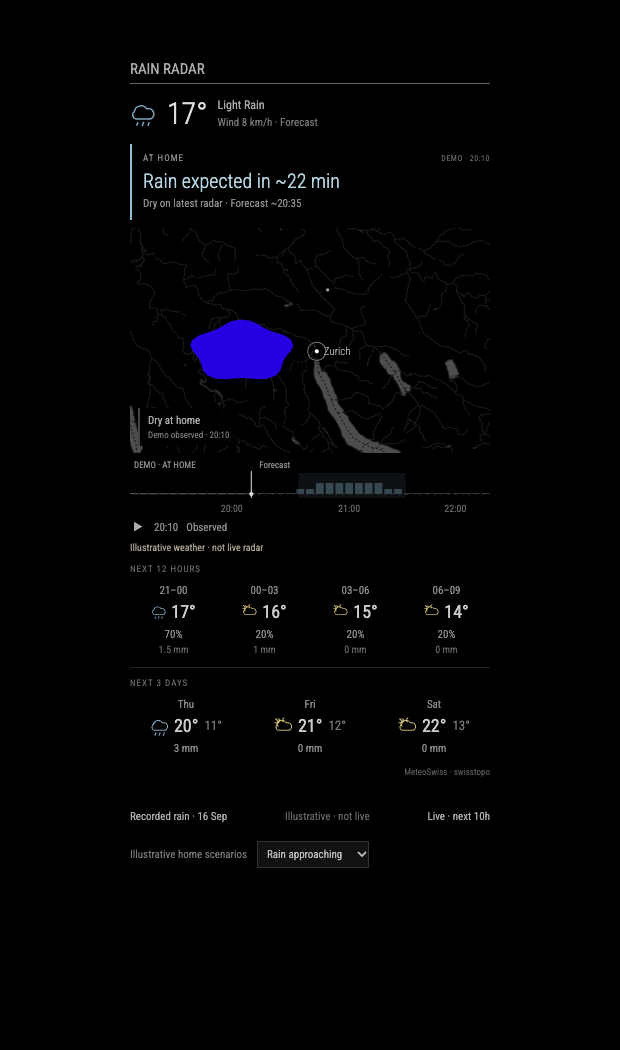
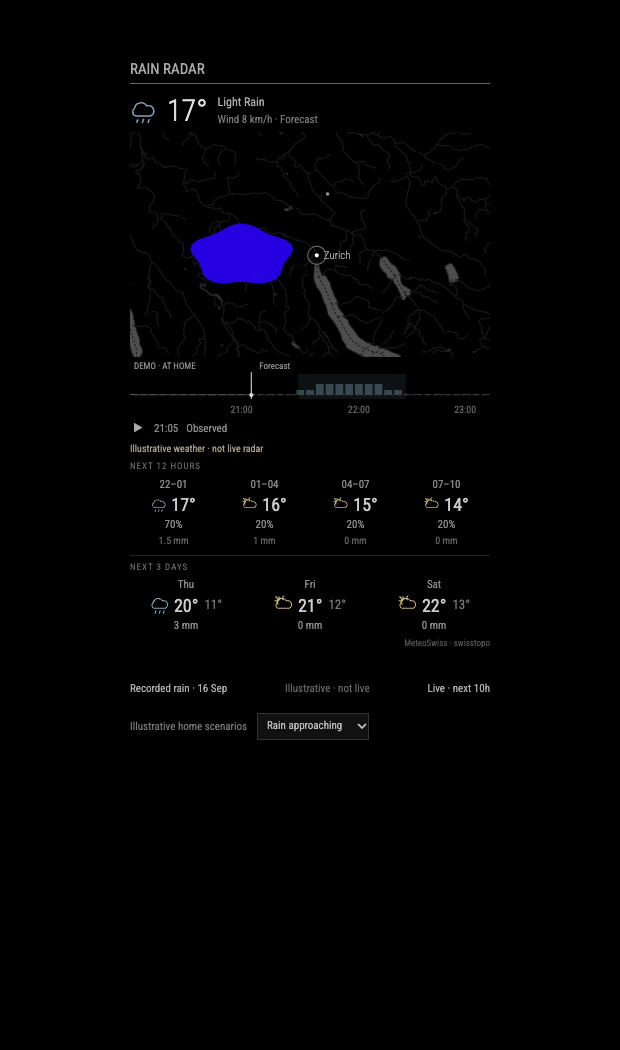
Keep radar minimal and retain usable observations when frames are missing

diff --git a/public/view.js b/public/view.js
@@ -83,6 +83,7 @@
     this.time=element("span","rr-time","—");this.kind=element("span","rr-kind","");
     footer.appendChild(this.play);footer.appendChild(this.time);footer.appendChild(this.kind);
     this.focus=element("span","rr-focus","");footer.appendChild(this.focus);
+    this.focus.hidden=!c.showHomeSummary;
     if(!c.showControls)this.play.hidden=true;
     var attribution=element("span","rr-attribution");
     var meteo=element("a",null,"MeteoSwiss");meteo.href="https://www.meteoswiss.admin.ch/";meteo.target="_blank";meteo.rel="noopener noreferrer";
@@ -101,7 +102,10 @@
     var previous=this.data && this.data.frames[this.index].time;
     this.data=data;this.error="";
     this.homeTimeline=home.analyze(data);
-    this.index=previous===undefined || previous===null?core.nearestIndex(data.frames,data.replay?data.frames[0].time:data.latestObservation):core.nearestIndex(data.frames,previous);
+    this.hasAnimation=data.frames.filter(function(f){return f.available;}).length>1;
+    var observation=this.homeTimeline.frames[this.homeTimeline.latest],initial=observation?observation.time:data.latestObservation;
+    this.index=previous===undefined || previous===null?core.nearestIndex(data.frames,data.replay?data.frames[0].time:initial):core.nearestIndex(data.frames,previous);
+    if(this.playing&&!data.frames[this.index].available&&observation)this.index=this.homeTimeline.latest;
     // Nothing to animate when no frame shows rain: hold the latest observation instead of
     // redrawing identical empty frames several times a second.
     this.dry=!data.replay && data.frames.every(function(f){return home.level(f)===0&&(!f.polygons || !f.polygons.length);});
@@ -113,8 +117,8 @@
     if(!this.data){content(this.homeHeadline,this.error?"Home radar unavailable":"Checking rain at home…");return;}
     var d=this.data,t=this.homeTimeline,f=t.frames[t.latest],now=Date.now()/1000;
     var outlook=home.outlook(t,now),e=outlook.episode,title,detail="",tone=home.state(f);
-    var stale=!d.replay&&now-d.latestObservation>this.config.staleAfterMinutes*60;
-    var source=(d.demo?"DEMO":d.replay?"RECORDING":stale?"OLD RADAR":"LATEST RADAR")+" · "+this.timeLabel(d.latestObservation);
+    var observedTime=f?f.time:d.latestObservation,stale=!d.replay&&now-observedTime>this.config.staleAfterMinutes*60;
+    var source=(d.demo?"DEMO":d.replay?"RECORDING":stale?"OLD RADAR":"LATEST RADAR")+" · "+this.timeLabel(observedTime);
     if(d.replay){
       var wet=t.episodes[0],incomplete=t.frames.some(function(frame){return home.level(frame)===null;});
       tone=wet?home.state(t.frames[wet.peak]):incomplete?"unknown":"dry";
@@ -142,7 +146,7 @@
         }
       }else if(outlook.complete)detail="No rain in forecast through "+this.timeLabel(outlook.end);
       else detail=outlook.end?"Home forecast incomplete":"No home forecast available";
-      if(stale){detail="Updated "+Math.floor((now-d.latestObservation)/60)+" min ago · "+detail;tone="unknown";}
+      if(stale){detail="Updated "+Math.floor((now-observedTime)/60)+" min ago · "+detail;tone="unknown";}
     }
     if(this.homeSummary.dataset.state!==tone)this.homeSummary.dataset.state=tone;
     content(this.homeSource,source);content(this.homeHeadline,title);content(this.homeDetail,detail);
@@ -195,13 +199,14 @@
       if(this.homeMarker.dataset.kind!==f.kind)this.homeMarker.dataset.kind=f.kind;
     }
     if(this.homeFrame.dataset.state!==homeState)this.homeFrame.dataset.state=homeState;
-    if(this.homeFrame.hidden)this.homeFrame.hidden=false;
+    var hideFrame=!this.config.showHomeSummary;
+    if(this.homeFrame.hidden!==hideFrame)this.homeFrame.hidden=hideFrame;
     content(this.homeFrameTitle,wet?home.intensity(f)+" over home":homeState==="dry"?"Dry at home":"Home data unavailable");
     content(this.homeFrameTime,(this.data.demo?"Demo "+kind.toLowerCase():this.data.replay?"Recorded":kind)+" · "+this.timeLabel(f.time));
-    content(this.focus,this.config.adaptivePlayback&&wet?"Following home rain":"");
+    content(this.focus,this.config.showHomeSummary&&this.config.adaptivePlayback&&wet?"Following home rain":"");
     // Only touch the controls when they change: an attribute write re-styles the whole widget.
-    var animating=String(this.playing&&!this.suspended&&!this.dry&&this.data.frames.length>1);
-    var disabled=this.data.frames.length<2||this.dry;
+    var animating=String(this.playing&&!this.suspended&&!this.dry&&this.hasAnimation);
+    var disabled=!this.hasAnimation||this.dry;
     if(this.play.disabled!==disabled)this.play.disabled=disabled;
     content(this.play,this.playing&&!this.dry?"Ⅱ":"▶");
     var playLabel=this.dry?"No rain in the radar window":this.playing?"Pause radar animation":"Play radar animation";
@@ -214,7 +219,8 @@
     var messages=[];
     if(this.error)messages.push(this.error);
     if(this.data){
-      if(!this.data.replay && Date.now()/1000-this.data.latestObservation>this.config.staleAfterMinutes*60)messages.push("Stale radar · last observation "+this.timeLabel(this.data.latestObservation));
+      var observation=this.data.frames[this.homeTimeline.latest],observedTime=observation?observation.time:this.data.latestObservation;
+      if(!this.data.replay && Date.now()/1000-observedTime>this.config.staleAfterMinutes*60)messages.push("Stale radar · last observation "+this.timeLabel(observedTime));
       var f=this.data.frames[this.index];if(f&&!f.available)messages.push("Frame unavailable");
       if(this.data.horizonLimited)messages.push("Forecast available through "+this.timeLabel(this.data.frames[this.data.frames.length-1].time));
       if(this.data.replay)messages.push("Historical observations · "+this.data.label);
@@ -228,9 +234,12 @@
   View.prototype.setError=function(message){this.error=message;this.status();this.renderHomeSummary();};
   View.prototype.schedule=function(){
     clearTimeout(this.timer);this.timer=null;
-    if(this.destroyed||this.suspended||!this.playing||this.dry||!this.data||this.data.frames.length<2)return;
+    if(this.destroyed||this.suspended||!this.playing||this.dry||!this.data||!this.hasAnimation)return;
     var self=this,delay=home.delay(this.homeTimeline,this.index,this.config,this.speed);
-    this.timer=setTimeout(function(){self.index=(self.index+1)%self.data.frames.length;self.draw();self.schedule();},delay);
+    this.timer=setTimeout(function(){
+      do{self.index=(self.index+1)%self.data.frames.length;}while(!self.data.frames[self.index].available);
+      self.draw();self.schedule();
+    },delay);
   };
   View.prototype.setSuspended=function(value){this.suspended=value;this.schedule();if(this.data)this.draw();};
   View.prototype.destroy=function(){this.destroyed=true;clearTimeout(this.timer);clearInterval(this.statusTimer);this.paths=[];};

diff --git a/MMM-RainRadar.css b/MMM-RainRadar.css
@@ -18,10 +18,11 @@
 .rr-widget[data-playing=true] .rr-home[data-state=rain] .rr-home-halo, .rr-widget[data-playing=true] .rr-home[data-state=heavy] .rr-home-halo { animation: rr-home-breathe 2.4s ease-in-out infinite; }
 @keyframes rr-home-breathe { 0%,100% { opacity: .25; } 50% { opacity: .75; } }
 @media(prefers-reduced-motion:reduce) { .rr-widget .rr-home .rr-home-halo { animation: none !important; } }
-.rr-widget .rr-home-summary { min-height: 74px; margin: 0 0 8px; padding: 8px 0 8px 11px; border-left: 2px solid #333; }
-.rr-widget .rr-home-heading { display: flex; justify-content: space-between; align-items: baseline; gap: 8px; color: #888; font-size: 9px; letter-spacing: 1.1px; line-height: 1.4; }
+.rr-widget .rr-home-summary { position: relative; min-height: 52px; margin: 0 0 6px; padding: 5px 0 5px 11px; border-left: 2px solid #333; }
+.rr-widget .rr-home-heading { position: absolute; top: 8px; right: 0; color: #888; font-size: 9px; letter-spacing: 1.1px; line-height: 1.4; }
+.rr-widget .rr-home-heading > span:first-child { position: absolute; width: 1px; height: 1px; overflow: hidden; clip: rect(0,0,0,0); white-space: nowrap; }
 .rr-widget .rr-home-source { color: #666; font-size: 8px; letter-spacing: .5px; white-space: nowrap; font-variant-numeric: tabular-nums; }
-.rr-widget .rr-home-headline { color: #ddd; font-size: 20px; font-weight: 300; line-height: 1.3; margin: 3px 0 2px; }
+.rr-widget .rr-home-headline { color: #ddd; font-size: 18px; font-weight: 300; line-height: 1.3; margin: 0 0 2px; padding-right: 104px; }
 .rr-widget .rr-home-detail { font-size: 11px; line-height: 1.5; color: #888; font-variant-numeric: tabular-nums; }
 .rr-widget .rr-home-summary[data-state=rain], .rr-widget .rr-home-summary[data-state=soon] { border-color: #91bdd2; }
 .rr-widget .rr-home-summary[data-state=heavy] { border-color: #e1ba7d; }
@@ -37,7 +38,7 @@
 .rr-widget .rr-home-frame[data-state=heavy] { border-color: #e1ba7d; }
 .rr-widget .rr-home-frame[data-state=heavy] .rr-home-frame-title { color: #e1ba7d; }
 .rr-widget .rr-map text { fill: #aaa; font-size: 11px; font-weight: 300; paint-order: stroke; stroke: #000; stroke-width: 3px; }
-.rr-widget .rr-chart-wrap { position: relative; width: 100%; height: 60px; margin-top: 5px; }
+.rr-widget .rr-chart-wrap { position: relative; width: 100%; height: 60px; margin-top: 2px; }
 .rr-widget .rr-chart-wrap svg { display: block; width: 100%; height: 60px; overflow: hidden; }
 .rr-widget .rr-chart-wrap text { font-size: 10px; fill: #666; }
 .rr-widget .rr-chart-wrap .rr-period { font-size: 9px; fill: #888; }
@@ -72,7 +73,7 @@
 .rr-widget[data-playing=true] .rr-time::before { content: ''; display: inline-block; width: 2px; height: 2px; margin-right: 6px; border-radius: 50%; background: #666; }
 .rr-widget [hidden] { display: none !important; }
 /* Forecast panels stay still while radar frames advance. */
-.rr-widget .rr-weather-now { display:flex; align-items:center; gap:10px; min-height:40px; margin-bottom:10px; font-size:12px; }
+.rr-widget .rr-weather-now { display:flex; align-items:center; gap:10px; min-height:34px; margin-bottom:4px; font-size:12px; }
 .rr-widget .rr-weather-icon { width:20px; height:20px; fill:none; stroke:currentColor; stroke-width:1.3; stroke-linecap:round; stroke-linejoin:round; flex-shrink:0; color:#999; }
 .rr-widget .rr-weather-icon[data-tone=sun] { color:#c5b36f; }
 .rr-widget .rr-weather-icon[data-tone=moon] { color:#b9b193; }
@@ -85,18 +86,18 @@
 .rr-widget .rr-current-summary { text-align:left; line-height:1.45; }
 .rr-widget .rr-current-condition { color:#aaa; text-transform:capitalize; }
 .rr-widget .rr-current-detail { font-size:11px; color:#777; }
-.rr-widget .rr-weather-heading { line-height:1.4; font-size:9px; letter-spacing:1px; color:#666; margin:5px 0 7px; }
+.rr-widget .rr-weather-heading { line-height:1.4; font-size:9px; letter-spacing:1px; color:#666; margin:4px 0 4px; }
 .rr-widget .rr-weather-hours { display:grid; grid-template-columns:repeat(4,minmax(0,1fr)); gap:4px; text-align:center; }
 .rr-widget .rr-hour-label, .rr-widget .rr-day-label { font-size:11px; color:#888; line-height:1.4; }
-.rr-widget .rr-hour-temp, .rr-widget .rr-day-temp { display:flex; justify-content:center; align-items:center; gap:4px; color:#ccc; font-size:18px; line-height:1.6; }
+.rr-widget .rr-hour-temp, .rr-widget .rr-day-temp { display:flex; justify-content:center; align-items:center; gap:4px; color:#ccc; font-size:18px; line-height:1.4; }
 .rr-widget .rr-hour-temp .rr-weather-icon { width:16px; height:16px; }
 .rr-widget .rr-rain-chance { font-size:11px; color:#888; line-height:1.5; }
 .rr-widget .rr-rain-amount { font-size:10px; color:#666; line-height:1.4; }
-.rr-widget .rr-days-heading { border-top:1px solid #242424; padding-top:9px; margin-top:10px; }
-.rr-widget .rr-weather-days { display:grid; grid-template-columns:repeat(3,minmax(0,1fr)); gap:12px; margin-bottom:9px; text-align:center; }
+.rr-widget .rr-days-heading { border-top:1px solid #242424; padding-top:5px; margin-top:7px; }
+.rr-widget .rr-weather-days { display:grid; grid-template-columns:repeat(3,minmax(0,1fr)); gap:12px; margin-bottom:4px; text-align:center; }
 .rr-widget .rr-low { font-size:13px; color:#777; margin-left:2px; }
 .rr-widget .rr-day-rain { font-size:11px; color:#888; line-height:1.4; }
 .rr-widget .rr-weather-notice { font-size:10px; color:#a69b8d; line-height:1.5; }
 
-.rr-widget .rr-weather-panels { margin-top:8px; }
+.rr-widget .rr-weather-panels { margin-top:3px; }
 .rr-widget .rr-weather-credits { display:flex; line-height:1.4; font-size:9px; }

diff --git a/test/view.test.js b/test/view.test.js
@@ -63,9 +63,9 @@ test('home summary and map marker can be hidden independently',()=>{
     assert.equal(v.homeSummary.hidden,true);assert.equal(v.homeMarker,undefined);assert.match(v.homeFrameTitle.textContent,/Rain over home/);
   }finally{v.destroy();}
 });
-test('frame unavailable and local coverage gaps cannot freeze as an entirely dry scene',()=>{
+test('missing forecasts remain incomplete when only one usable observation exists',()=>{
   const v=setup({autoplay:true});try{v.setData({latestObservation:now,frames:[{time:now,kind:'measurement',available:true,homeLevel:0,polygons:[]},{time:now+300,kind:'forecast',available:false,homeLevel:null,polygons:[]}]});
-    assert.equal(v.dry,false);assert.ok(v.timer);assert.match(v.homeDetail.textContent,/incomplete/);
+    assert.equal(v.dry,false);assert.equal(v.timer,null);assert.match(v.homeDetail.textContent,/incomplete/);
   }finally{v.destroy();}
 });
 test('refresh updates current home conditions while retaining a paused historical frame',()=>{
@@ -80,5 +80,44 @@ test('refresh updates current home conditions while retaining a paused historica
 test('a recording with missing home data cannot claim dry conditions',()=>{
   const v=setup();try{v.setData({latestObservation:now,replay:true,label:'Archived',frames:[{time:now,kind:'measurement',available:false,homeLevel:null,polygons:[]}]});
     assert.match(v.homeHeadline.textContent,/incomplete/);assert.equal(v.homeSummary.dataset.state,'unknown');
+  }finally{v.destroy();}
+});
+test('a missing newest frame uses the recent valid observation rather than announcing home radar unavailable',()=>{
+  const v=setup({showHomeSummary:true});try{v.setData({latestObservation:now,frames:[
+    {time:now-300,kind:'measurement',available:true,homeLevel:0,polygons:[]},
+    {time:now,kind:'measurement',available:false,homeLevel:null,polygons:[]},
+    {time:now+300,kind:'forecast',available:true,homeLevel:0,polygons:[]}
+  ]});
+    assert.notEqual(v.homeHeadline.textContent,'Home radar unavailable');
+    assert.equal(v.index,0);assert.equal(v.kind.textContent,'Observed');
+    assert.equal(v.homeSource.textContent,'LATEST RADAR · '+v.timeLabel(now-300));
+    assert.ok(!v.notice.textContent.includes('Frame unavailable'));
+  }finally{v.destroy();}
+});
+test('default view stays minimal in dry, rainy, heavy and unavailable home scenes',()=>{
+  const v=setup();try{for(const name of ['dry','rain','heavy','missing']){
+    v.setData(scene(v.config,name,Date.now()));
+    assert.equal(v.homeSummary.hidden,true);assert.equal(v.homeFrame.hidden,true);assert.equal(v.focus.hidden,true);
+    assert.equal(v.focus.textContent,'');
+  }}finally{v.destroy();}
+});
+test('automatic playback skips unavailable frames while manual scrubbing can still select them',t=>{
+  t.mock.timers.enable({apis:['setTimeout']});
+  const v=setup({autoplay:true});try{
+    v.setData({latestObservation:now,frames:[
+      {time:now,kind:'measurement',available:true,homeLevel:0,polygons:[]},
+      {time:now+300,kind:'forecast',available:false,homeLevel:null,polygons:[]},
+      {time:now+600,kind:'forecast',available:true,homeLevel:3,polygons:[]}
+    ]});
+    t.mock.timers.tick(1000);assert.equal(v.index,2);assert.ok(!v.notice.textContent.includes('Frame unavailable'));
+    v.slider.value=now+300;v.slider.oninput();assert.equal(v.index,1);assert.match(v.notice.textContent,/Frame unavailable/);
+  }finally{v.destroy();}
+});
+test('a single usable observation is held without pretending there is an animation',()=>{
+  const v=setup({autoplay:true});try{
+    v.setData({latestObservation:now,frames:[
+      {time:now,kind:'measurement',available:true,homeLevel:3,polygons:[]},
+      {time:now+300,kind:'forecast',available:false,homeLevel:null,polygons:[]}
+    ]});assert.equal(v.timer,null);assert.equal(v.root.dataset.playing,'false');assert.equal(v.play.disabled,true);
   }finally{v.destroy();}
 });

diff --git a/test/provider.test.js b/test/provider.test.js
@@ -14,3 +14,36 @@ test('matching concurrent instances account for shared prepared cache exactly on
   await Promise.all([p.series(core.normalize({})),p.series(core.normalize({}))]);
   assert.equal(p.prepared.size,4);assert.equal(p.preparedBytes,[...p.prepared.values()].reduce((sum,v)=>sum+v.size,0));
 });
+test('missing older images cannot prevent loading the newest usable observation',async()=>{
+  const manifest={map_images:[{pictures:Array.from({length:12},(_,i)=>picture(latest-(11-i)*300,'measurement'))}]};
+  const p=new RadarProvider({fetch:async url=>{
+    if(url.endsWith('versions.json'))return{'precipitation/animation':'v1'};
+    if(url.endsWith('animation.json'))return manifest;
+    const time=Number(url.match(/\/(\d+)\.json$/)[1]);
+    if(time<latest-7*300)throw Error('Weather service HTTP 404');return raw;
+  }});
+  const result=await p.series(core.normalize({pastMinutes:60,forecastHours:0}));
+  assert.equal(result.frames[result.frames.length-1].available,true);
+});
+test('malformed older contours affect individual frames without cancelling later images',async()=>{
+  const manifest={map_images:[{pictures:Array.from({length:12},(_,i)=>picture(latest-(11-i)*300,'measurement'))}]};
+  const p=new RadarProvider({fetch:async url=>{
+    if(url.endsWith('versions.json'))return{'precipitation/animation':'v1'};
+    if(url.endsWith('animation.json'))return manifest;
+    const time=Number(url.match(/\/(\d+)\.json$/)[1]);
+    return time<latest-7*300?Object.assign({},raw,{coords:null}):raw;
+  }});
+  const result=await p.series(core.normalize({pastMinutes:60,forecastHours:0}));
+  assert.equal(result.frames.filter(f=>!f.available).length,4);
+  assert.equal(result.frames[result.frames.length-1].available,true);
+});
+test('a sustained transport outage still stops after a bounded number of frame requests',async()=>{
+  let requests=0;const manifest={map_images:[{pictures:Array.from({length:24},(_,i)=>picture(latest-(23-i)*300,'measurement'))}]};
+  const p=new RadarProvider({fetch:async url=>{
+    if(url.endsWith('versions.json'))return{'precipitation/animation':'v1'};
+    if(url.endsWith('animation.json'))return manifest;
+    requests++;throw Error('Weather request timed out');
+  }});
+  await assert.rejects(p.series(core.normalize({pastMinutes:180,forecastHours:0})),/unavailable/);
+  assert.ok(requests<=7);
+});

diff --git a/lib/provider.js b/lib/provider.js
@@ -74,17 +74,19 @@ class RadarProvider {
     const selection=selectFrames(animation,config);
     const frames=new Array(selection.frames.length);
     const geometryKey=JSON.stringify([config.bounds,config.point,config.width]);
-    let next=0,failures=0;
+    let next=0,failures=0,serviceFailures=0;
     const worker=async()=>{
       while(next<frames.length){
         const index=next++, f=selection.frames[index];
+        let downloaded=false;
         try{
-          if(failures>=4)throw new Error("Weather service unavailable");
+          if(serviceFailures>=4)throw new Error("Weather service unavailable");
           const key=geometryKey+f.url;
           let prepared=this.prepared.get(key);
           if(prepared){this.prepared.delete(key);this.prepared.set(key,prepared);}
           else{
             const raw=await this.json(framePath(f.url),86400000);
+            downloaded=true;
             const decoded=decode(raw,config);
             prepared={data:decoded,size:Buffer.byteLength(JSON.stringify(decoded))};
             if(prepared.size<=8*1024*1024){
@@ -96,7 +98,13 @@ class RadarProvider {
           }
           const decoded=prepared.data;
           frames[index]=Object.assign({time:f.time,kind:f.kind,available:true},decoded);
-        }catch(error){failures++;frames[index]={time:f.time,kind:f.kind,available:false,homeLevel:null,polygons:[]};}
+          serviceFailures=0;
+        }catch(error){
+          failures++;
+          // A missing image or malformed contour affects that frame, not the service.
+          if(!downloaded&&!/HTTP (404|410)\b/.test(error.message))serviceFailures++;
+          frames[index]={time:f.time,kind:f.kind,available:false,homeLevel:null,polygons:[]};
+        }
       }
     };
     await Promise.all(Array.from({length:Math.min(4,frames.length)},worker));

diff --git a/public/home.js b/public/home.js
@@ -21,7 +21,15 @@
         active=null;
       }
     });
-    var latest=frames.findIndex(function(f){return f.kind==="measurement"&&f.time===data.latestObservation;});
+    // A manifest can advertise a frame before the image is usable. Keep the last
+    // successful observation, with its real timestamp, rather than selecting a blank map.
+    var latest=-1,available=-1;
+    frames.forEach(function(f,i){
+      if(f.kind!=="measurement"||f.time>data.latestObservation||!f.available)return;
+      if(available<0||f.time>frames[available].time)available=i;
+      if(level(f)!==null&&(latest<0||f.time>frames[latest].time))latest=i;
+    });
+    if(latest<0)latest=available;
     return {frames:frames,latest:latest,episodes:episodes,byFrame:byFrame};
   }
   function outlook(timeline,now){

diff --git a/public/core.js b/public/core.js
@@ -19,7 +19,7 @@
     mapStyle: "rivers", mapOpacity: 0.65, rainOpacity: 0.9,
     pastMinutes: 60, forecastHours: 10, frameStepMinutes: 5,
     updateInterval: 300000, staleAfterMinutes: 20,
-    autoplay: true, respectReducedMotion: true, adaptivePlayback: true, showHomeSummary: true,
+    autoplay: true, respectReducedMotion: true, adaptivePlayback: true, showHomeSummary: false,
     frameInterval: 480, playbackSpeed: 4,
     pauseAtLatest: 0, timeZone: "Europe/Zurich", locale: "en-GB"
   };

diff --git a/demo/home-fixture.js b/demo/home-fixture.js
@@ -23,7 +23,7 @@ function scene(config,name,now){
     if(homeLevel>0){
       polygons.push(cloud(config.point[0],config.point[1],4300,core.scale[homeLevel-1].color));
     }
-    const available=!(name==="missing"&&(i===12||i===15));
+    const available=!(name==="missing"&&(i<=12||i===15));
     return {time:latest+minute*60,kind:i<=12?"measurement":"forecast",available,
       homeLevel:available?homeLevel:null,polygons:available?polygons:[]};
   });

diff --git a/README.md b/README.md
@@ -11,7 +11,7 @@ bars for your configured location. The chart doubles as the animation scrubber.
 - One hour of past observations and a **10-hour forecast** by default.
 - Bars represent precipitation intensity classes at your chosen location.
 - Home-focused playback: fast through dry frames, slower over rain, with readable arrival/peak holds.
-- A steady home summary, rain/clearing estimates and an overhead-rain halo.
+- A subtle home halo and shaded local rain windows; optional arrival/clearing summary.
 - Pause, drag-to-select and keyboard navigation.
 - Optional integrated current weather, 12-hour outlook and three-day forecast.
 - Multiple instances, cached downloads, partial-frame and stale-data indicators.
@@ -123,11 +123,11 @@ is required. Invalid settings produce an explanatory message in the widget.
 | `location` | Zurich city centre | `{ latitude, longitude, label }`; point sampled by bars |
 | `mapCenter` | `null` | `{ latitude, longitude }`; `null` centres on `location` |
 | `mapSpanKm` | `48` | East–west span, 10–700 km; north–south span follows the aspect ratio |
-| `width`, `height` | `460`, `230` | Map size in CSS pixels; allow about 190 px for header/home summary/chart/footer, plus optional weather panels |
+| `width`, `height` | `460`, `230` | Map size in CSS pixels; allow about 110 px for header/chart/footer, plus optional summary/weather panels |
 | `pixelRatio` | `1` | Rendering scale, 1–2; keep 1 for a Pi, use 2 for a high-DPI display |
 | `markers` | `[]` | Up to 20 `{ latitude, longitude, label, showLabel }` objects |
 | `showLocation` | `true` | Draw a bright home dot; rain in the displayed frame adds a halo |
-| `showHomeSummary` | `true` | Show latest home radar conditions and the upcoming local rain outlook |
+| `showHomeSummary` | `false` | Opt into a home status/arrival summary and map caption; the default keeps the view minimal |
 | `showLocationLabel` | `false` | Show the location's label |
 | `showMarkerLabels` | `true` | Allow marker labels; individual `showLabel: false` still hides them |
 | `mapStyle` | `"rivers"` | `"rivers"`, `"lakes"`, or `"none"` |
@@ -157,24 +157,22 @@ the first available frame at/after the requested end; shorter availability is sh
 
 ## Reading and controlling the chart
 
-The **AT HOME** summary stays steady while the map animates. It uses the latest
-observation at `location`, with a timestamp. When that point is dry and the model
-shows rain within 90 minutes, the headline switches to an approximate arrival
-countdown. Rain at home takes priority, showing its intensity class and the first
-forecast dry sample when available. The summary updates on data refresh and once
-per minute; it never follows the playback cursor.
-
-The map's separate caption describes **the displayed frame**, including whether
-it is observed or forecast. A blue double halo highlights precipitation over home;
-amber highlights classes of 10 mm/h and above, labelled heavy rain. Forecast halos
+The default view shows the map, home precipitation bars and timestamp. A blue double
+halo highlights precipitation over home; amber highlights classes of 10 mm/h and above.
+Forecast halos
 have a dashed inner ring. A gentle opacity pulse runs during playback, respects
 reduced-motion preferences and stops when paused or hidden. These cues remain
 usable in grayscale. Heavy rain is not a confirmation of thunder or lightning.
 
+Set `showHomeSummary: true` for a steady current-condition summary, approximate
+forecast arrival/clearing times and a separate map-frame caption. This summary uses
+the latest usable home observation with its real timestamp, independently of playback.
+It updates once per minute and on data refresh.
+
 Rain/clearing times are approximate first wet/dry radar-model samples, subject to
 frame spacing and forecast uncertainty. Missing samples break rain windows and
-suppress confident arrival countdowns. Stale observations use “Last radar” rather
-than a current-condition headline. “Dry” means below the radar's 0.2 mm/h display
+suppress confident arrival countdowns. The optional summary labels stale observations
+“Last radar”. “Dry” means below the radar's 0.2 mm/h display
 threshold, not a reading from a sensor at the house.
 
 Bars show **intensity classes**, not an exact continuous rainfall rate or an
@@ -202,6 +200,9 @@ message. Stale observations are explicitly labelled. Missing individual frames
 stay in the timeline and are marked unavailable. Existing pause, time selection
 and speed survive a data refresh. Hiding the MagicMirror module pauses playback
 and polling; showing it resumes the chosen playback state and requests fresh data.
+If the newest image is missing, the map starts on the latest usable observation.
+Automatic playback skips unavailable images; manual scrubbing can still inspect
+their marked gaps. Individual missing images do not cancel the remaining downloads.
 
 ## Raspberry Pi performance
 

diff --git a/CHANGELOG.md b/CHANGELOG.md
@@ -4,13 +4,15 @@
 
 - Adaptive playback speeds through dry home frames, slows for local rain and heavy rain,
   and holds arrival, peak, clearing and the latest observation.
-- A persistent home summary shows measured precipitation and approximate forecast arrival/
-  clearing times independently of the map frame; stale/missing data remain explicit.
-- Blue/amber home halos, dashed forecast rings, a frame caption and shaded home rain windows.
+- Minimal map/timeline presentation with blue/amber home halos, dashed forecast rings
+  and shaded home rain windows. Summary, arrival/clearing estimates and captions are opt-in.
 - Reduced-motion and pause/suspend behavior apply to the halo pulse; constant pacing and
   hiding the summary remain configurable.
 - Dry-day playback requires complete home coverage; unavailable frames cannot appear dry.
 - Demo-only scenarios and browser-verified narrow-layout screenshots.
+- Compact weather spacing keeps the home radar and existing forecast panels in narrow columns.
+- Use the newest usable observation when a manifest advertises a missing image; skip unavailable
+  frames during autoplay. Missing/invalid individual images cannot cancel later downloads.
 
 ## 0.4.0 — Quieter on dry days
 
